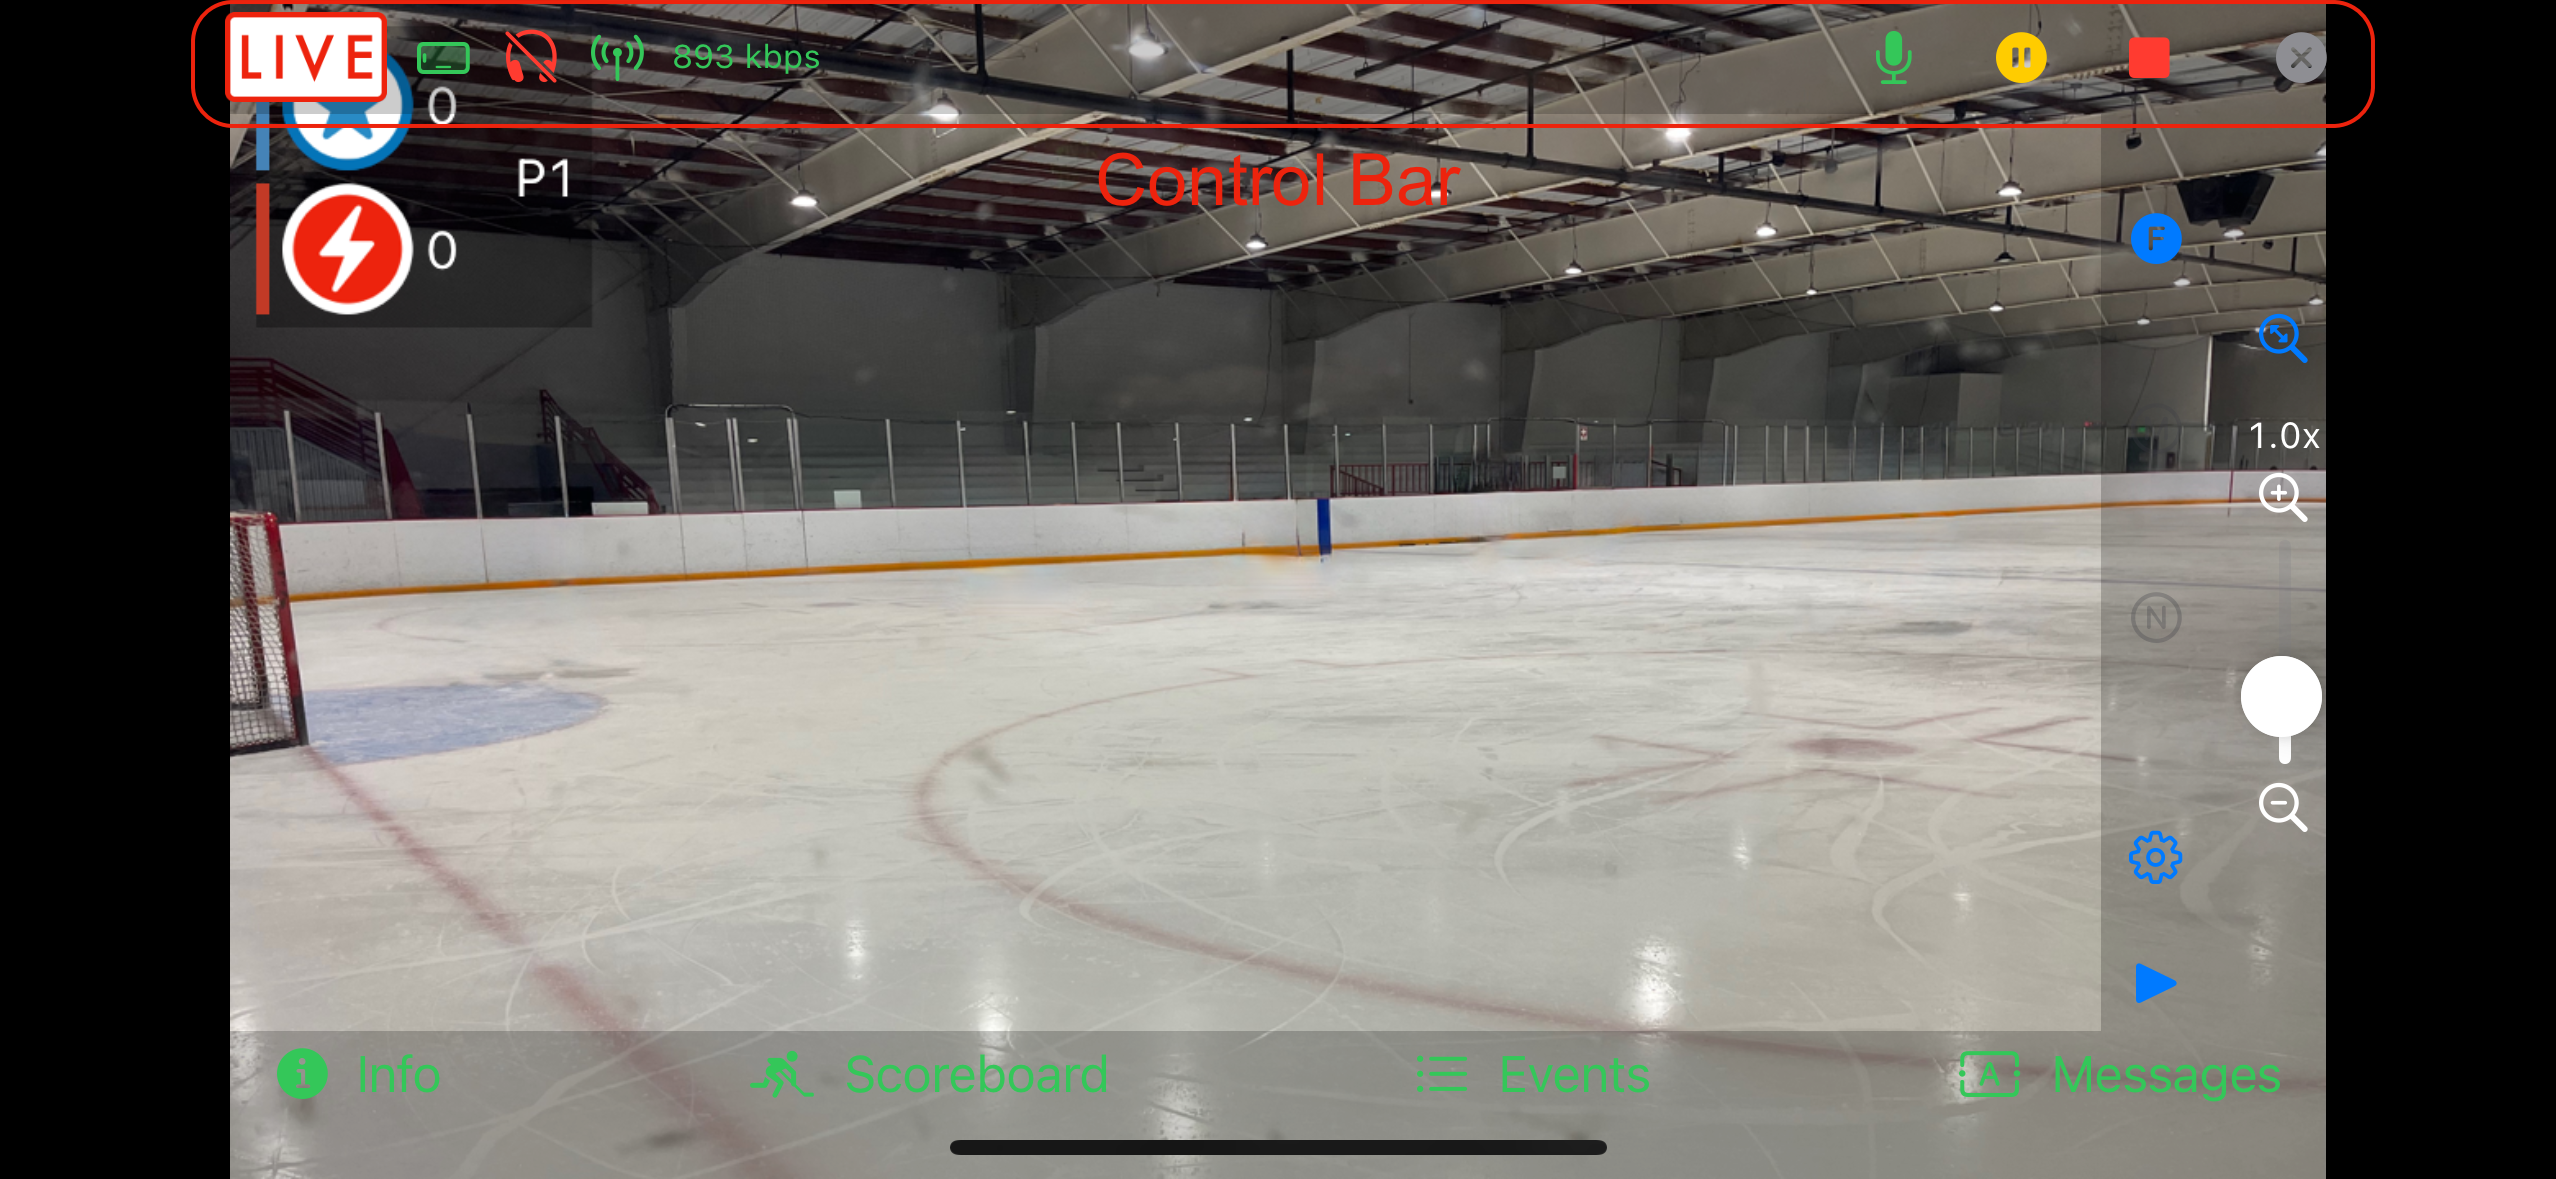
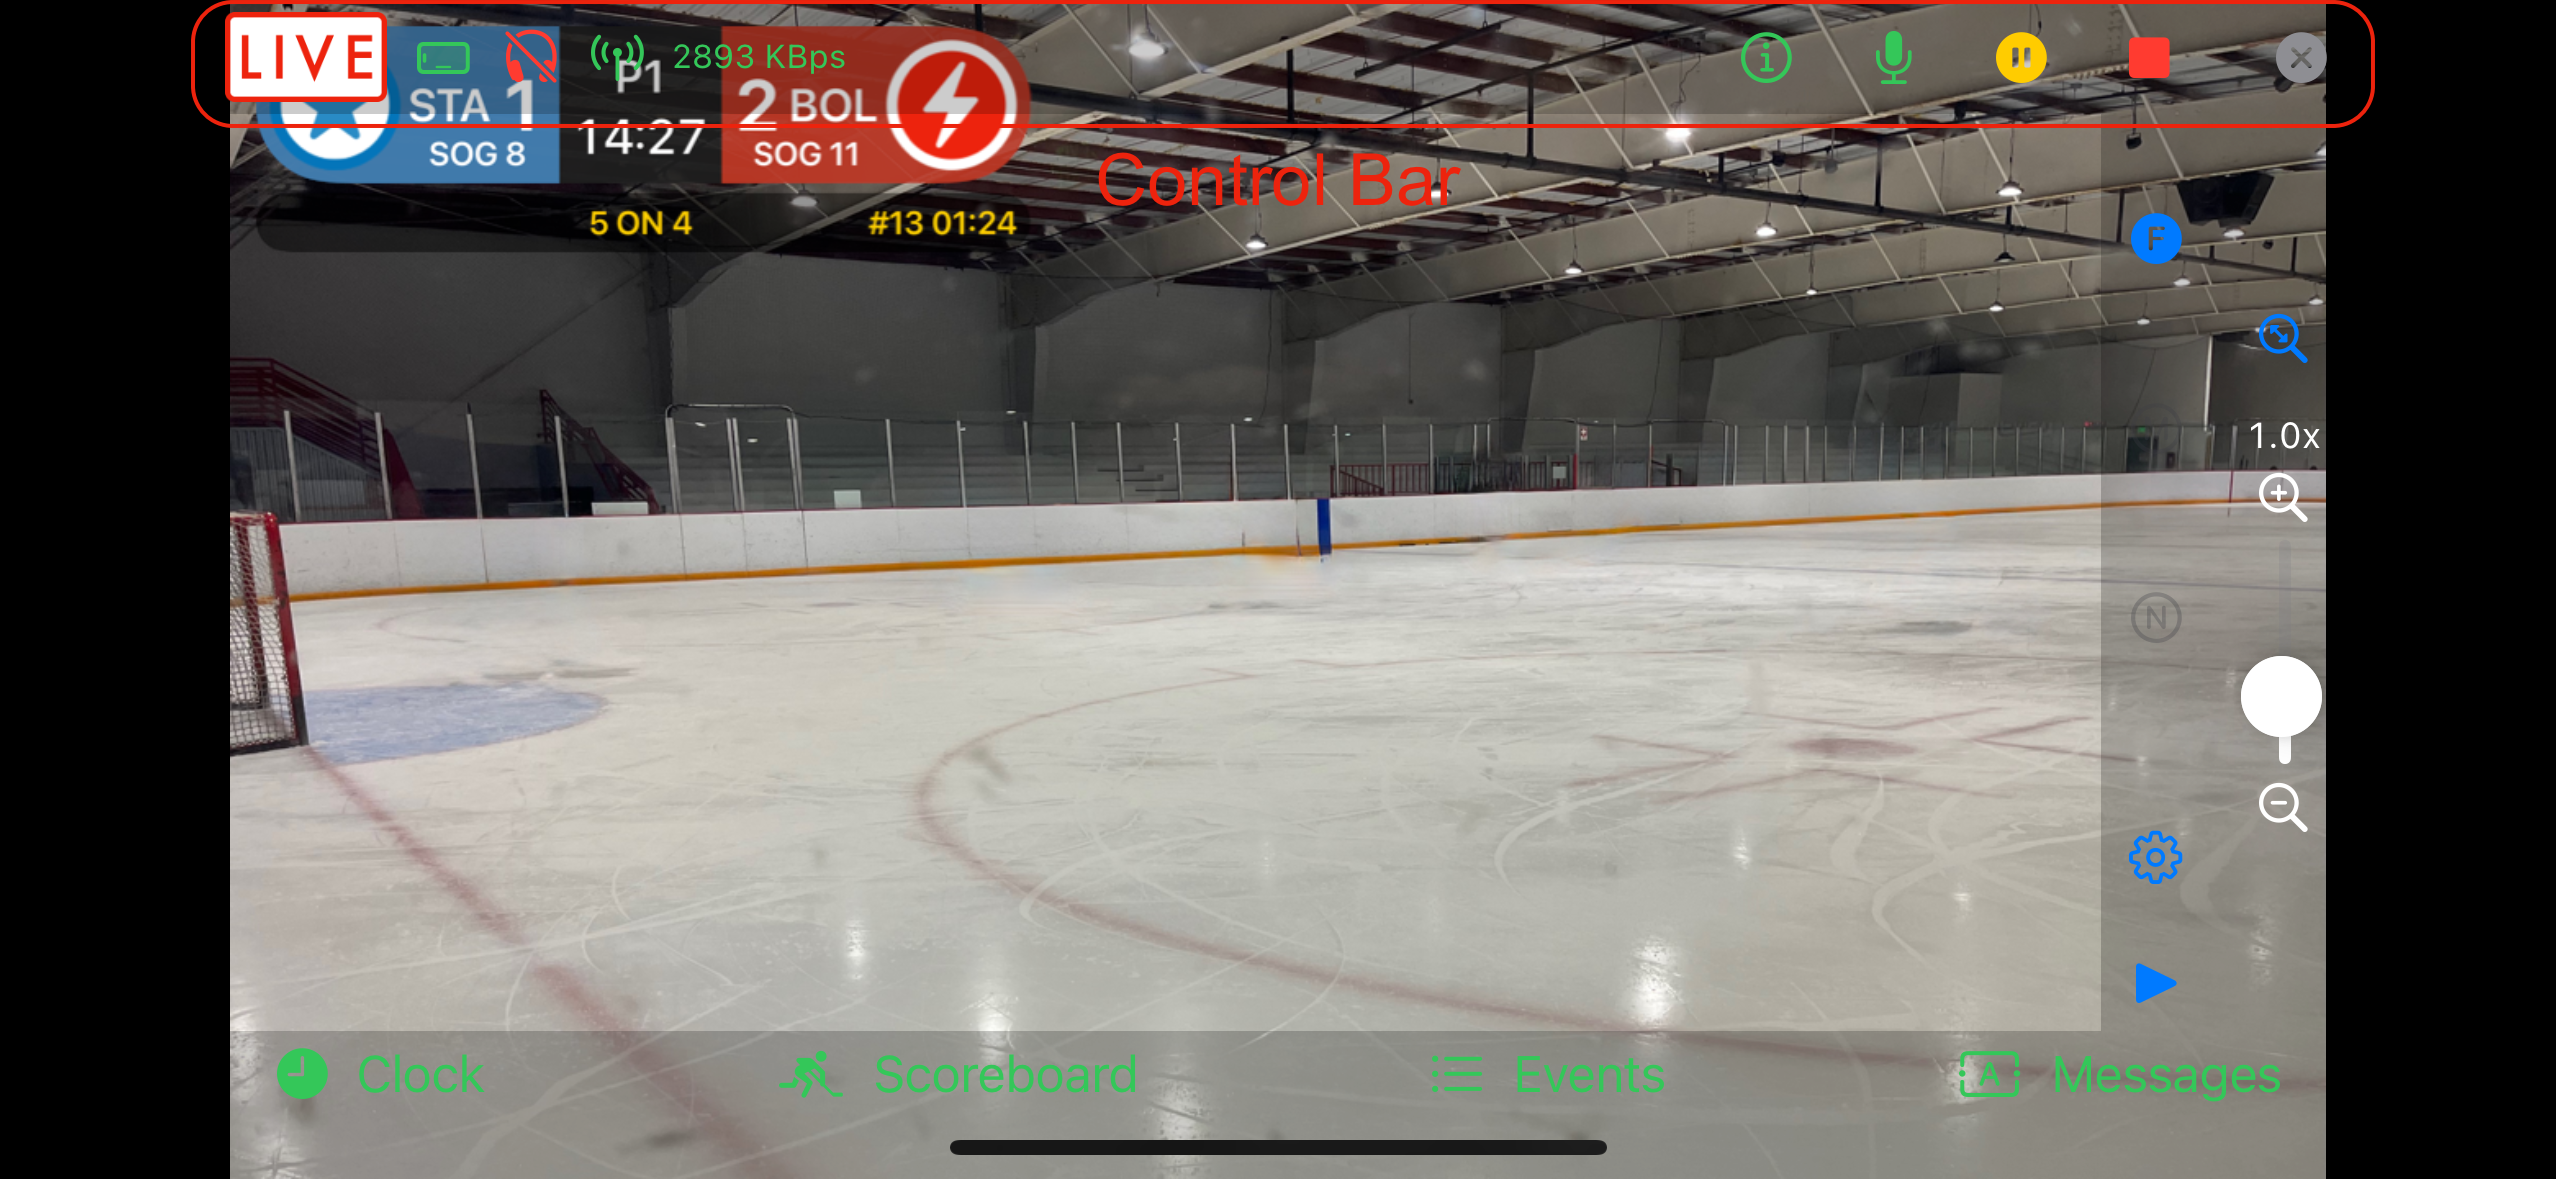
Update docs for 1.3-3

diff --git a/myteamlive/go-live.md b/myteamlive/go-live.md
@@ -19,20 +19,22 @@ Use the Go Live tab to configure teams, video settings, and streaming destinatio
 1. Choose a saved endpoint.
 2. Select the sport.
 3. Pick Home and Away teams.
-4. Review FPS and Quality; adjust if needed.
-5. Tap **Go Live** to open the Camera View.
-6. Tap Play/Pause on the control bar to broadcast in Standby mode. Standby sends the intermission screen with muted audio.
-7. Tap Play to unmute and show the camera feed to viewers.
+4. Choose scorebug type (hockey only).
+5. Review FPS and Quality; adjust if needed.
+6. Tap **Go Live** to open the Camera View.
+7. Tap Play/Pause on the control bar to broadcast in Standby mode. Standby sends the intermission screen with muted audio.
+8. Tap Play to unmute and show the camera feed to viewers.
 
 ## Starting with a Connected Account
 1. Choose a signed-in account (YouTube or Twitch).
 2. For YouTube, fill in title, description, and privacy.
 3. Select the sport.
 4. Pick Home and Away teams.
-5. Review FPS and Quality.
-6. Tap **Go Live** to open the Camera View.
-7. Tap Play/Pause on the control bar to broadcast in Standby mode. Standby sends the intermission screen with muted audio.
-8. Tap Play to unmute and broadcast the live camera feed.
+5. Choose scorebug type (hockey only).
+6. Review FPS and Quality.
+7. Tap **Go Live** to open the Camera View.
+8. Tap Play/Pause on the control bar to broadcast in Standby mode. Standby sends the intermission screen with muted audio.
+9. Tap Play to unmute and broadcast the live camera feed.
 
 ## During the Broadcast
 - Update scores and period/time from the [Scoreboard Panel](scoreboard-panel).

diff --git a/myteamlive/control-bar.md b/myteamlive/control-bar.md
@@ -12,19 +12,24 @@ section_url: /myteamlive/index
   <img src="/images/CameraViewControlBar.png" alt="Control bar zoomed view" style="max-width:100%;height:auto;border-radius:12px;">
 </p>
 
-The control bar appears at the top of the Camera View whenever you start streaming. It combines real-time indicators with transport controls.
+The control bar appears at the top of the Camera View whenever you start
+streaming. It combines real-time indicators with transport controls.
 
 ## Indicators (Left Side)
+
 - Broadcast status: Off-Air, Standby, or Live.
 - Device orientation icon (portrait or landscape).
 - Headphone connection indicator.
 - Network status (ready, connecting, good, unstable, etc.).
-- Current upload speed in kbps.
+- Current upload speed in KBps.
 
 ## Controls (Right Side)
+
+- Camera status info.
 - Microphone mute toggle.
 - Live/Pause/Restart toggle.
 - Stop broadcast.
 - Close the Camera View.
 
-Use the interactive preview inside the app's Help section to see how each control changes the indicators.
+Use the interactive preview inside the app's Help section to see how each
+control changes the indicators.

diff --git a/myteamlive/clock-panel.md b/myteamlive/clock-panel.md
@@ -1,0 +1,29 @@
+---
+layout: myteamlive
+title: "Clock Panel"
+section_logo: /images/MyTeamLive.png
+section_name: MyTeamLive
+section_url: /myteamlive/index
+---
+
+# Clock Panel
+
+Only available when using the Ribbon scorebug with Hockey.
+
+Manage the game clock, player advantage, and penalties on the scorebug.
+
+
+## Basics
+- **Start** start the game clock.
+- **Stop** stop the game clock.
+- **Reset** reset the game clock (defaults to 00:00).
+
+The Game Clock runs down to 0. If you reset the Game Clock and there are active penalties, use *Save & Adjust Penalties* to keep the penalties in sync with the Game Clock.
+
+## Penalties
+List of active penalties, penalties can be expired or edited.
+- **Add Penalty** add a new penalty
+
+Penalty clocks run with the game clock. A penalty clock that goes to 0 expires and is removed. If a side has multiple penalties, a **+** will indicate that there are other penalties counting down.
+
+Because of the basic controls, if a player gets consecutive penalties, i.e. two minors for head contact, enter one penalty, and then enter the second penalty once the first expires.

diff --git a/myteamlive/stream-info-panel.md b/myteamlive/stream-info-panel.md
@@ -15,7 +15,9 @@ The Stream Info panel surfaces telemetry so you can monitor the broadcast withou
 - Headphones: connection status (also in the control bar).
 - Zoom: current zoom factor.
 - FPS: active frame rate (30 or 60).
+- Current FPS.
 - Quality: video resolution (720p or 1080p).
+- Current bitrate in KBps.
 - Endpoint: ingest URL and stream key in use.
 - Publish State: detailed encoder state beyond the simple broadcast label.
 - Stream State: detailed network status beyond the control bar indicator.

diff --git a/myteamlive/scoreboard-panel.md b/myteamlive/scoreboard-panel.md
@@ -19,7 +19,7 @@ Toggle the on-stream scoreboard, adjust scores, and manage sport-specific info.
 - **Period** selects 1st, 2nd, 3rd, or OT.
 - **OT #** sets the overtime number when OT is active.
 - **Power Play** shows which team has the advantage.
-- **Player Advantage** displays skater counts or Empty Net.
+- **Shots on Goal** steppers to track shots, if you are using the ribbon control.
 
 ## Soccer Controls
 - **Period** selects First Half, Second Half, Extra Time, or PKs (when available).

diff --git a/myteamlive/camera-view.md b/myteamlive/camera-view.md
@@ -25,6 +25,7 @@ Open the [Zoom](zoom) slider on the right edge to adjust magnification. Preset b
 
 ## Control Panels
 Open panels along the bottom edge to manage:
+- Clock, sport-specific clock controls ([Clock Panel](clock-panel))
 - Scoreboard, including sport-specific states ([Scoreboard Panel](scoreboard-panel))
 - Custom messages and Celly Stickers ([Messages Panel](messages-panel))
 - Sport-specific event prompts ([Events Panel](events-panel))
